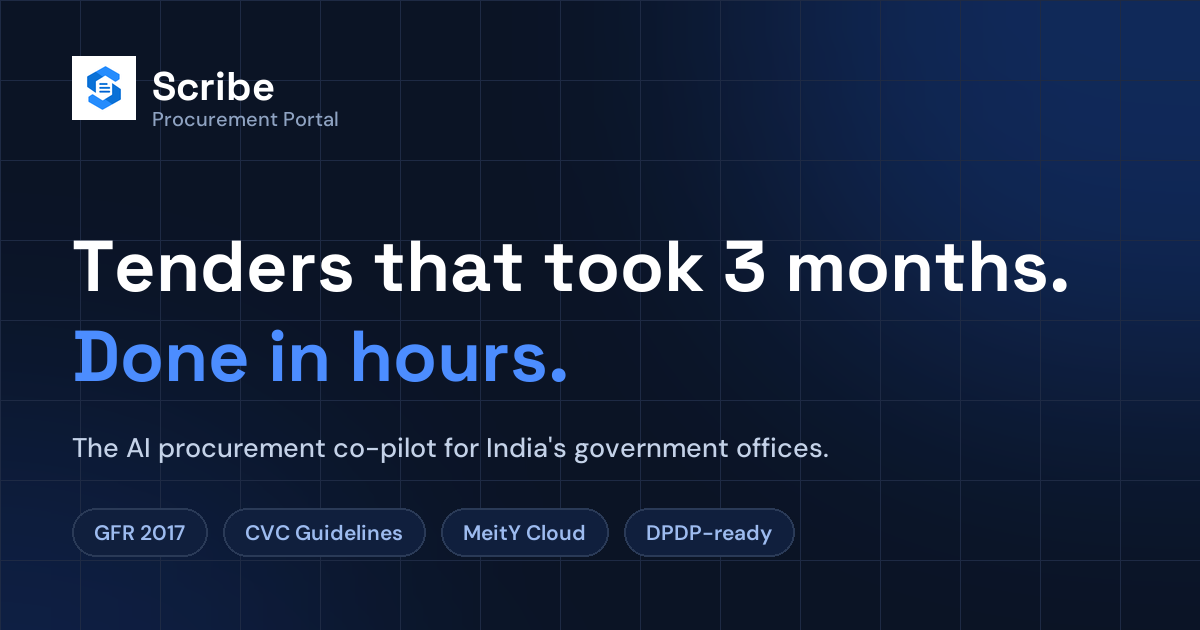
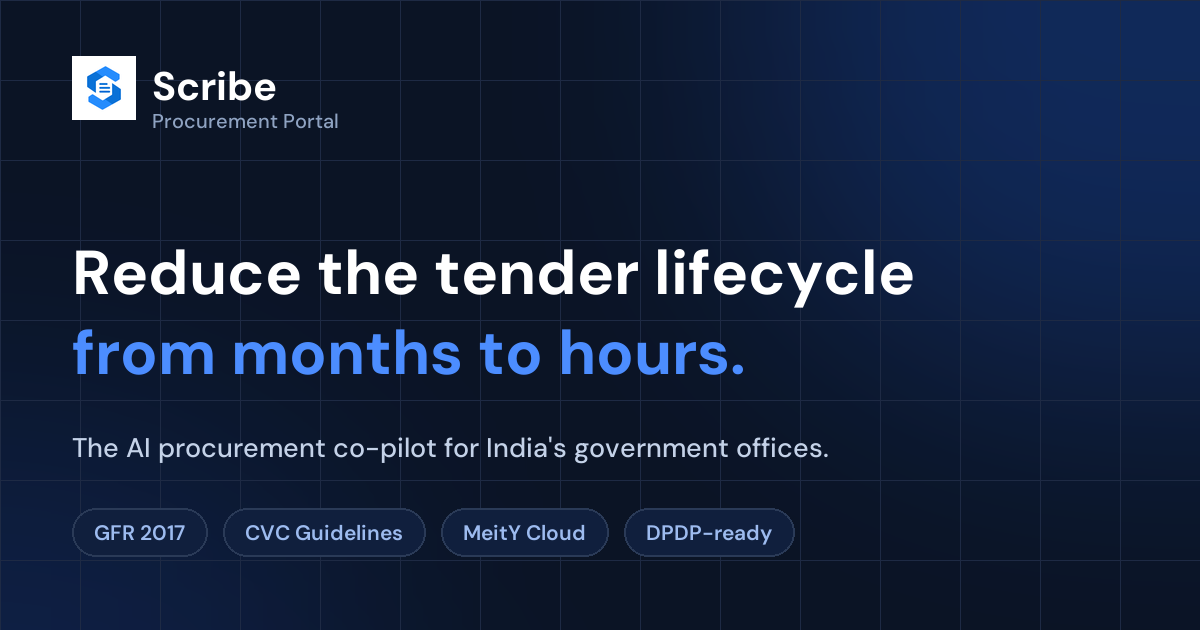
Feedback decisions: new hero headline, static FAQ, cut Problem section, trust section
Per your calls on the four flagged items:
- Hero headline -> 'Reduce the tender lifecycle from months to hours.'
  (sheet version); OG share card regenerated to match.
- FAQ heading reverted to static 'Straight answers, kept simple.';
  removed the rotating-word markup, CSS, and JS.
- Cut the Problem section ('Government procurement is built on paper')
  entirely (Feedback #3).
- Repurposed 'AI at every step' into a trust/security section
  (Feedback #5/#6): eyebrow 'Built for trust', four crafted DOM cards
  in the shuffle stack — rule-based compliance, self-hosted LLM / data
  sovereignty, trained on 1,000+ tenders, immutable audit trail — with
  trust stats (1,000+ / 0 / 100%) and relabeled pills.

diff --git a/index.html b/index.html
@@ -19,7 +19,7 @@
   <!-- og:image needs an absolute URL once the domain is live -->
   <meta property="og:image" content="assets/og-card.png" />
   <meta name="twitter:card" content="summary_large_image" />
-  <link rel="stylesheet" href="styles.css?v=73" />
+  <link rel="stylesheet" href="styles.css?v=74" />
   <script>document.documentElement.classList.add('js');</script>
 </head>
 <body>
@@ -99,8 +99,7 @@
           </span>
 
           <h1 id="hero-title">
-            Tenders that took <span class="accent">3 months.</span><br>
-            Done in <span class="accent">hours.</span>
+            Reduce the tender lifecycle from <span class="accent">months to hours.</span>
           </h1>
 
           <p class="hero__lead">
@@ -293,135 +292,6 @@
         </div>
         <!-- /hero__visual -->
 
-      </div>
-    </section>
-
-    <!-- ================================================================
-         PAIN SECTION : "The reality today"
-         Dark banded cards, stat-first, visual-led, minimal text.
-    ================================================================ -->
-    <section class="section pain-section pain-section--dark" id="pain" aria-labelledby="pain-title">
-      <div class="container">
-        <div class="section-head pain-head">
-          <h2 id="pain-title" class="pain-h2">Government procurement is built on paper. And paper breaks.</h2>
-        </div>
-
-        <div class="pain-grid">
-
-          <!-- 1 · Tender creation -->
-          <div class="pain-card pain-card--amber reveal" data-stagger-delay="0">
-            <div class="pain-band" aria-hidden="true">
-              <!-- Timeline mini-viz -->
-              <div class="pviz pviz--timeline">
-                <div class="pviz__months"><span>Jan</span><span>Feb</span><span>Mar</span><span>Apr</span></div>
-                <div class="pviz__track"><div class="pviz__prog"></div></div>
-                <div class="pviz__flag">Tender Approved ✓</div>
-              </div>
-              <span class="pain-band__num">01</span>
-            </div>
-            <div class="pain-body">
-              <div class="pain-stat">2–3<em>mo</em></div>
-              <h3 class="pain-title">Tender creation takes months</h3>
-              <p class="pain-desc">12+ departments, counter-signatures, re-submissions, weeks lost before one clause is approved.</p>
-            </div>
-          </div>
-
-          <!-- 2 · Pre-bid queries -->
-          <div class="pain-card pain-card--violet reveal" data-stagger-delay="80">
-            <div class="pain-band" aria-hidden="true">
-              <!-- Inbox stack mini-viz -->
-              <div class="pviz pviz--inbox">
-                <div class="pviz__msg"><span class="pviz__dot"></span><span class="pviz__mtext">Re: Clause 4.2 clarification…</span></div>
-                <div class="pviz__msg"><span class="pviz__dot"></span><span class="pviz__mtext">Please confirm the EMD amount…</span></div>
-                <div class="pviz__msg pviz__msg--fade"><span class="pviz__dot"></span><span class="pviz__mtext">Same as query #47, please…</span></div>
-                <div class="pviz__overflow">+197 more unread</div>
-              </div>
-              <span class="pain-band__num">02</span>
-            </div>
-            <div class="pain-body">
-              <div class="pain-stat">200+<em>queries</em></div>
-              <h3 class="pain-title">No record of what was answered</h3>
-              <p class="pain-desc">The same question, a hundred phrasings, with no log of prior answers, one inconsistent reply can void the process.</p>
-            </div>
-          </div>
-
-          <!-- 3 · Evaluation confidentiality -->
-          <div class="pain-card pain-card--red pain-card--featured reveal" data-stagger-delay="160">
-            <div class="pain-band" aria-hidden="true">
-              <!-- Pulse risk mini-viz -->
-              <div class="pviz pviz--risk">
-                <div class="pviz__ring pviz__ring--1"></div>
-                <div class="pviz__ring pviz__ring--2"></div>
-                <div class="pviz__core">
-                  <svg width="28" height="28" viewBox="0 0 24 24" fill="none" stroke="currentColor" stroke-width="1.75" stroke-linecap="round" stroke-linejoin="round"><path d="M12 22s8-4 8-10V5l-8-3-8 3v7c0 6 8 10 8 10z"/><line x1="9" y1="9" x2="15" y2="15"/><line x1="15" y1="9" x2="9" y2="15"/></svg>
-                </div>
-              </div>
-              <span class="pain-band__num">03</span>
-            </div>
-            <div class="pain-body">
-              <div class="pain-stat">ZERO<em>audit trail</em></div>
-              <h3 class="pain-title">Evaluation has no confidentiality guard</h3>
-              <p class="pain-desc">Physical boxes, handwritten scores, no access log, one allegation of bias stalls the project and ends careers.</p>
-            </div>
-          </div>
-
-          <!-- 4 · Requirement matching -->
-          <div class="pain-card pain-card--blue reveal" data-stagger-delay="0">
-            <div class="pain-band" aria-hidden="true">
-              <!-- Comparison table mini-viz -->
-              <div class="pviz pviz--compare">
-                <div class="pviz__thead"><span>Tender req.</span><span>Bid doc.</span></div>
-                <div class="pviz__trow pviz__trow--ok"><span>Clause 4.1</span><span class="pviz__ok">✓</span></div>
-                <div class="pviz__trow pviz__trow--ok"><span>Clause 4.2</span><span class="pviz__ok">✓</span></div>
-                <div class="pviz__trow pviz__trow--err"><span>Clause 4.3</span><span class="pviz__err">✗ Missing</span></div>
-              </div>
-              <span class="pain-band__num">04</span>
-            </div>
-            <div class="pain-body">
-              <div class="pain-stat">50+<em>clauses</em></div>
-              <h3 class="pain-title">Bids matched to tender by hand</h3>
-              <p class="pain-desc">Miss one clause and the evaluation fails, or worse, succeeds only to be legally challenged months later.</p>
-            </div>
-          </div>
-
-          <!-- 5 · Bid comparison -->
-          <div class="pain-card pain-card--teal reveal" data-stagger-delay="80">
-            <div class="pain-band" aria-hidden="true">
-              <!-- Bar chart mini-viz -->
-              <div class="pviz pviz--bars">
-                <div class="pviz__bar-col"><div class="pviz__bar-fill" style="--h:68%"></div><span>A</span></div>
-                <div class="pviz__bar-col"><div class="pviz__bar-fill" style="--h:42%"></div><span>B</span></div>
-                <div class="pviz__bar-col"><div class="pviz__bar-fill" style="--h:91%"></div><span>C</span></div>
-                <div class="pviz__bar-col"><div class="pviz__bar-fill" style="--h:55%"></div><span>D</span></div>
-              </div>
-              <span class="pain-band__num">05</span>
-            </div>
-            <div class="pain-body">
-              <div class="pain-stat">L1<em>on a spreadsheet</em></div>
-              <h3 class="pain-title">Bid evaluation with no standard</h3>
-              <p class="pain-desc">Four vendors, four formats, comparison is ad-hoc, scoring undocumented, and no trail of who decided what.</p>
-            </div>
-          </div>
-
-          <!-- 6 · Reference documents -->
-          <div class="pain-card pain-card--orange reveal" data-stagger-delay="160">
-            <div class="pain-band" aria-hidden="true">
-              <!-- Scattered files mini-viz -->
-              <div class="pviz pviz--files">
-                <div class="pviz__file" style="--rot:-13deg; --tx:-36px; --ty:6px">PWD_2019.pdf</div>
-                <div class="pviz__file" style="--rot:8deg; --tx:34px; --ty:-14px">Tender_old.docx</div>
-                <div class="pviz__file" style="--rot:-4deg; --tx:-4px; --ty:20px">GFR_ref.pdf</div>
-              </div>
-              <span class="pain-band__num">06</span>
-            </div>
-            <div class="pain-body">
-              <div class="pain-stat">LOST<em>every transfer</em></div>
-              <h3 class="pain-title">Institutional knowledge has no home</h3>
-              <p class="pain-desc">Reference docs buried in drawers or officers' heads, when someone transfers, that knowledge leaves too.</p>
-            </div>
-          </div>
-
-        </div>
       </div>
     </section>
 
@@ -789,7 +659,7 @@
     </section>
 
     <!-- ================================================================
-         AI CO-PILOT : copy left, AI-moment card stack right
+         TRUST & SECURITY : copy left, trust card stack right
     ================================================================ -->
     <section class="section ai-section" id="ai" aria-labelledby="ai-title">
       <!-- Spotlight grid : brightens where the cursor moves -->
@@ -808,7 +678,7 @@
           <div class="ai-copy">
             <div class="ai-pill">
               <span class="ai-pill__dot" aria-hidden="true"></span>
-              <span>AI at every step</span>
+              <span>Built for trust</span>
             </div>
             <h2 id="ai-title" class="ai-h2">Assistance that <em>guides</em>.<br>Authority that stays.</h2>
             <p class="ai-desc">No AI output hard-blocks a procurement action. Every suggestion is advisory, every flag links to the field it concerns, and the decision, signature, and accountability stay with the officer and the competent authority.</p>
@@ -817,9 +687,9 @@
               <a class="btn ai-btn-ghost" href="#how-it-works">See how it works</a>
             </div>
             <div class="ai-stats">
-              <div><b>~2 min</b><span>to a structured DPR, compared to 25</span></div>
-              <div><b>&lt;1 min</b><span>to the first tender draft</span></div>
-              <div><b>100%</b><span>of decisions stay with officers</span></div>
+              <div><b>1,000+</b><span>tenders trained on</span></div>
+              <div><b>0</b><span>third-party AI APIs</span></div>
+              <div><b>100%</b><span>data stays in India</span></div>
             </div>
           </div>
 
@@ -829,28 +699,52 @@
               <div class="ai-ghost ai-ghost--1" aria-hidden="true"></div>
               <div class="ai-ghost ai-ghost--2" aria-hidden="true"></div>
 
-              <article class="ai-card ai-card--art" data-card="0">
-                <img src="assets/ai/card-describe.png" alt="DPR Creation. A description such as 'Repair 12 km of roads in Bandra West, Zone 4' is converted into a structured Detailed Project Report in under 2 minutes, compared to 25." loading="lazy" width="840" height="1089">
+              <article class="ai-card ai-card--trust" data-card="0">
+                <div class="ai-tc__hd">
+                  <span class="ai-tc__icon"><svg width="17" height="17" viewBox="0 0 24 24" fill="none" stroke="currentColor" stroke-width="2" stroke-linecap="round" stroke-linejoin="round"><path d="M12 22s8-4 8-10V5l-8-3-8 3v7c0 6 8 10 8 10Z"/><path d="m9 12 2 2 4-4"/></svg></span>
+                  <span class="ai-tc__eyebrow">Rule-based, not guesswork</span>
+                </div>
+                <h3 class="ai-tc__title">Compliance you can defend</h3>
+                <p class="ai-tc__body">The CVC pre-check is deterministic and rule-based, not LLM-generated. It follows GFR 2017, CVC guidelines, and the Manual for Procurement.</p>
+                <div class="ai-tc__chips"><span>GFR 2017 · Rule 170</span><span>CVC pre-check</span><span>Manual for Procurement</span></div>
               </article>
 
-              <article class="ai-card ai-card--art" data-card="1">
-                <img src="assets/ai/card-criteria.png" alt="Tender Creation. Minimum annual turnover and standard criteria are pre-filled by AI for the relevant sector and value, producing a first draft in under 1 minute." loading="lazy" width="840" height="1066">
+              <article class="ai-card ai-card--trust" data-card="1">
+                <div class="ai-tc__hd">
+                  <span class="ai-tc__icon"><svg width="17" height="17" viewBox="0 0 24 24" fill="none" stroke="currentColor" stroke-width="2" stroke-linecap="round" stroke-linejoin="round"><rect width="18" height="11" x="3" y="11" rx="2"/><path d="M7 11V7a5 5 0 0 1 10 0v4"/></svg></span>
+                  <span class="ai-tc__eyebrow">Self-hosted LLM</span>
+                </div>
+                <h3 class="ai-tc__title">Your data never leaves India</h3>
+                <p class="ai-tc__body">Scribe runs a self-hosted model on MeitY-empanelled cloud, entirely within India. No third-party AI API ever sees a single bid.</p>
+                <div class="ai-tc__chips"><span>MeitY-empanelled cloud</span><span>DPDP Act</span><span>IT Act 2000</span></div>
               </article>
 
-              <article class="ai-card ai-card--art" data-card="2">
-                <img src="assets/ai/card-prescreen.png" alt="Bid Evaluation. A vendor's criteria are auto-verified with pass and review flags. The qualified verdict remains with the officer." loading="lazy" width="840" height="1051">
+              <article class="ai-card ai-card--trust" data-card="2">
+                <div class="ai-tc__hd">
+                  <span class="ai-tc__icon"><svg width="17" height="17" viewBox="0 0 24 24" fill="none" stroke="currentColor" stroke-width="2" stroke-linecap="round" stroke-linejoin="round"><path d="M12 3l1.7 4.7L18 9l-4.3 1.3L12 15l-1.7-4.7L6 9l4.3-1.3L12 3Z"/><path d="M19 14l.7 2L22 17l-2.3.7L19 20l-.7-2.3L16 17l2.3-.7Z"/></svg></span>
+                  <span class="ai-tc__eyebrow">Domain-trained</span>
+                </div>
+                <h3 class="ai-tc__title">Trained on 1,000+ tenders</h3>
+                <p class="ai-tc__body">The model learned from over a thousand real government tenders, so its drafts and checks speak the language of Indian public procurement.</p>
+                <div class="ai-tc__chips"><span>DSR-aware</span><span>GFR-aware</span><span>Sector templates</span></div>
               </article>
 
-              <article class="ai-card ai-card--art" data-card="3">
-                <img src="assets/ai/card-amendment.png" alt="Corrigendum. 25 responses are distilled into 4 amendment points, drafted for EE approval." loading="lazy" width="840" height="1042">
+              <article class="ai-card ai-card--trust" data-card="3">
+                <div class="ai-tc__hd">
+                  <span class="ai-tc__icon"><svg width="17" height="17" viewBox="0 0 24 24" fill="none" stroke="currentColor" stroke-width="2" stroke-linecap="round" stroke-linejoin="round"><path d="M3 12a9 9 0 1 0 9-9 9.75 9.75 0 0 0-6.74 2.74L3 8"/><path d="M3 3v5h5"/><path d="M12 7v5l4 2"/></svg></span>
+                  <span class="ai-tc__eyebrow">Nothing off the record</span>
+                </div>
+                <h3 class="ai-tc__title">Every access, logged</h3>
+                <p class="ai-tc__body">Role-based access, quotes masked until the formal reveal, and an immutable audit trail of who did what, and when.</p>
+                <div class="ai-tc__chips"><span>Role-based access</span><span>Immutable audit trail</span><span>Masked quotes</span></div>
               </article>
-            </div>
+</div>
 
-            <div class="ai-dots" role="tablist" aria-label="AI assistance examples">
-              <button class="ai-dot active" data-go="0" role="tab" aria-selected="true">Describe</button>
-              <button class="ai-dot" data-go="1" role="tab" aria-selected="false">Criteria</button>
-              <button class="ai-dot" data-go="2" role="tab" aria-selected="false">Pre-screen</button>
-              <button class="ai-dot" data-go="3" role="tab" aria-selected="false">Corrigendum</button>
+            <div class="ai-dots" role="tablist" aria-label="Trust and security points">
+              <button class="ai-dot active" data-go="0" role="tab" aria-selected="true">Compliance</button>
+              <button class="ai-dot" data-go="1" role="tab" aria-selected="false">Sovereignty</button>
+              <button class="ai-dot" data-go="2" role="tab" aria-selected="false">Trained</button>
+              <button class="ai-dot" data-go="3" role="tab" aria-selected="false">Audit trail</button>
             </div>
           </div>
 
@@ -866,18 +760,7 @@
         <div class="faq-grid">
 
           <div class="faq-intro">
-            <h2 id="faq-title">
-              <span aria-hidden="true">Straight answers, kept
-                <span class="faq-rotate">
-                  <span class="faq-rotate__w is-on">simple</span>
-                  <span class="faq-rotate__w">clear</span>
-                  <span class="faq-rotate__w">on record</span>
-                  <span class="faq-rotate__w">audit-ready</span>
-                  <span class="faq-rotate__w">defensible</span>
-                </span>
-              </span>
-              <span class="sr-only">Straight answers, kept simple.</span>
-            </h2>
+            <h2 id="faq-title">Straight answers, kept simple.</h2>
             <p>Scribe touches confidential bids, public money, and audits, so these questions deserve direct answers. The following are the most common; further detail is available in a live walkthrough.</p>
             <a class="btn faq-btn" href="#request">
               Reach out
@@ -1083,6 +966,6 @@
   </footer>
   </div><!-- /close-wrap -->
 
-  <script src="script.js?v=22"></script>
+  <script src="script.js?v=23"></script>
 </body>
 </html>

diff --git a/styles.css b/styles.css
@@ -1562,6 +1562,43 @@ button { font: inherit; color: inherit; cursor: pointer; background: none; borde
   display: block;
 }
 
+/* Trust/security DOM cards (repurposed AI section) */
+.ai-card--trust {
+  background: linear-gradient(180deg, rgba(19,31,57,.97), rgba(12,21,42,.97));
+  border: 1px solid rgba(255,255,255,.1);
+  box-shadow: 0 30px 70px -22px rgba(0,0,0,.6), inset 0 1px 0 rgba(255,255,255,.05);
+  padding: 1.7rem 1.5rem;
+  display: flex; flex-direction: column;
+  overflow: hidden;
+}
+.ai-tc__hd { display: inline-flex; align-items: center; gap: .55rem; }
+.ai-tc__icon {
+  width: 36px; height: 36px; border-radius: 10px; flex-shrink: 0;
+  display: grid; place-items: center;
+  background: rgba(96,165,250,.14);
+  border: 1px solid rgba(96,165,250,.25);
+  color: #93C5FD;
+}
+.ai-tc__eyebrow {
+  font-size: 10.5px; font-weight: 800; letter-spacing: .06em; text-transform: uppercase;
+  color: #93C5FD;
+}
+.ai-tc__title {
+  font-family: var(--font-display);
+  font-size: clamp(1.4rem, 1.1rem + 1vw, 1.85rem); font-weight: 700;
+  color: #fff; line-height: 1.12; letter-spacing: -.01em;
+  margin-top: 1.4rem;
+}
+.ai-tc__body { font-size: 14.5px; line-height: 1.65; color: #AEBCD4; margin-top: .85rem; }
+.ai-tc__chips { margin-top: auto; display: flex; flex-wrap: wrap; gap: .4rem; padding-top: 1.3rem; }
+.ai-tc__chips span {
+  font-size: 11px; font-weight: 600; color: #C7D4EA;
+  background: rgba(255,255,255,.05);
+  border: 1px solid rgba(255,255,255,.1);
+  border-radius: 999px;
+  padding: .3rem .6rem;
+}
+
 .ai-card__head {
   display: flex; align-items: center; gap: .5rem;
   padding: .85rem 1rem;
@@ -1656,28 +1693,7 @@ button { font: inherit; color: inherit; cursor: pointer; background: none; borde
 .faq-btn svg { transition: transform .25s ease; }
 .faq-btn:hover svg { transform: translateX(3px); }
 
-/* Rotating last word (ported from the framer-motion animated hero) */
-.faq-rotate {
-  position: relative;
-  display: block;
-  height: 1.2em;
-  margin-top: .1em;
-  overflow: hidden;
-  color: var(--primary);
-}
-.faq-rotate__w {
-  position: absolute; left: 0; top: 0;
-  white-space: nowrap;
-  font-weight: 700;
-  opacity: 0;
-  transform: translateY(115%);
-  transition: transform .55s cubic-bezier(.16,1,.3,1), opacity .45s ease;
-}
-.faq-rotate__w.is-on  { opacity: 1; transform: translateY(0); }
-.faq-rotate__w.is-out { opacity: 0; transform: translateY(-115%); }
-@media (prefers-reduced-motion: reduce) {
-  .faq-rotate__w { transition: none; }
-}
+
 
 /* Accordion — flat rows, border-bottom, underline on hover (shadcn style) */
 .faq { border-top: 1px solid var(--line); }

diff --git a/script.js b/script.js
@@ -515,26 +515,3 @@
     v.controls = true;
   }
 })();
-
-
-/* ── FAQ heading: rotating last word (spring-reveal, ported from the
-   framer-motion animated hero) ──────────────────────────────────────────── */
-(function () {
-  var rot = document.querySelector('.faq-rotate');
-  if (!rot) return;
-  var words = rot.querySelectorAll('.faq-rotate__w');
-  if (words.length < 2) return;
-  if (window.matchMedia('(prefers-reduced-motion: reduce)').matches) return;
-
-  var i = 0;
-  setInterval(function () {
-    var prev = i;
-    words[prev].classList.remove('is-on');
-    words[prev].classList.add('is-out');       /* current word slides up and out */
-    i = (i + 1) % words.length;
-    words[i].classList.remove('is-out');
-    words[i].classList.add('is-on');           /* next word springs up from below */
-    /* once the outgoing word is off-screen, drop it back below (invisibly) */
-    setTimeout(function () { words[prev].classList.remove('is-out'); }, 600);
-  }, 2000);
-})();